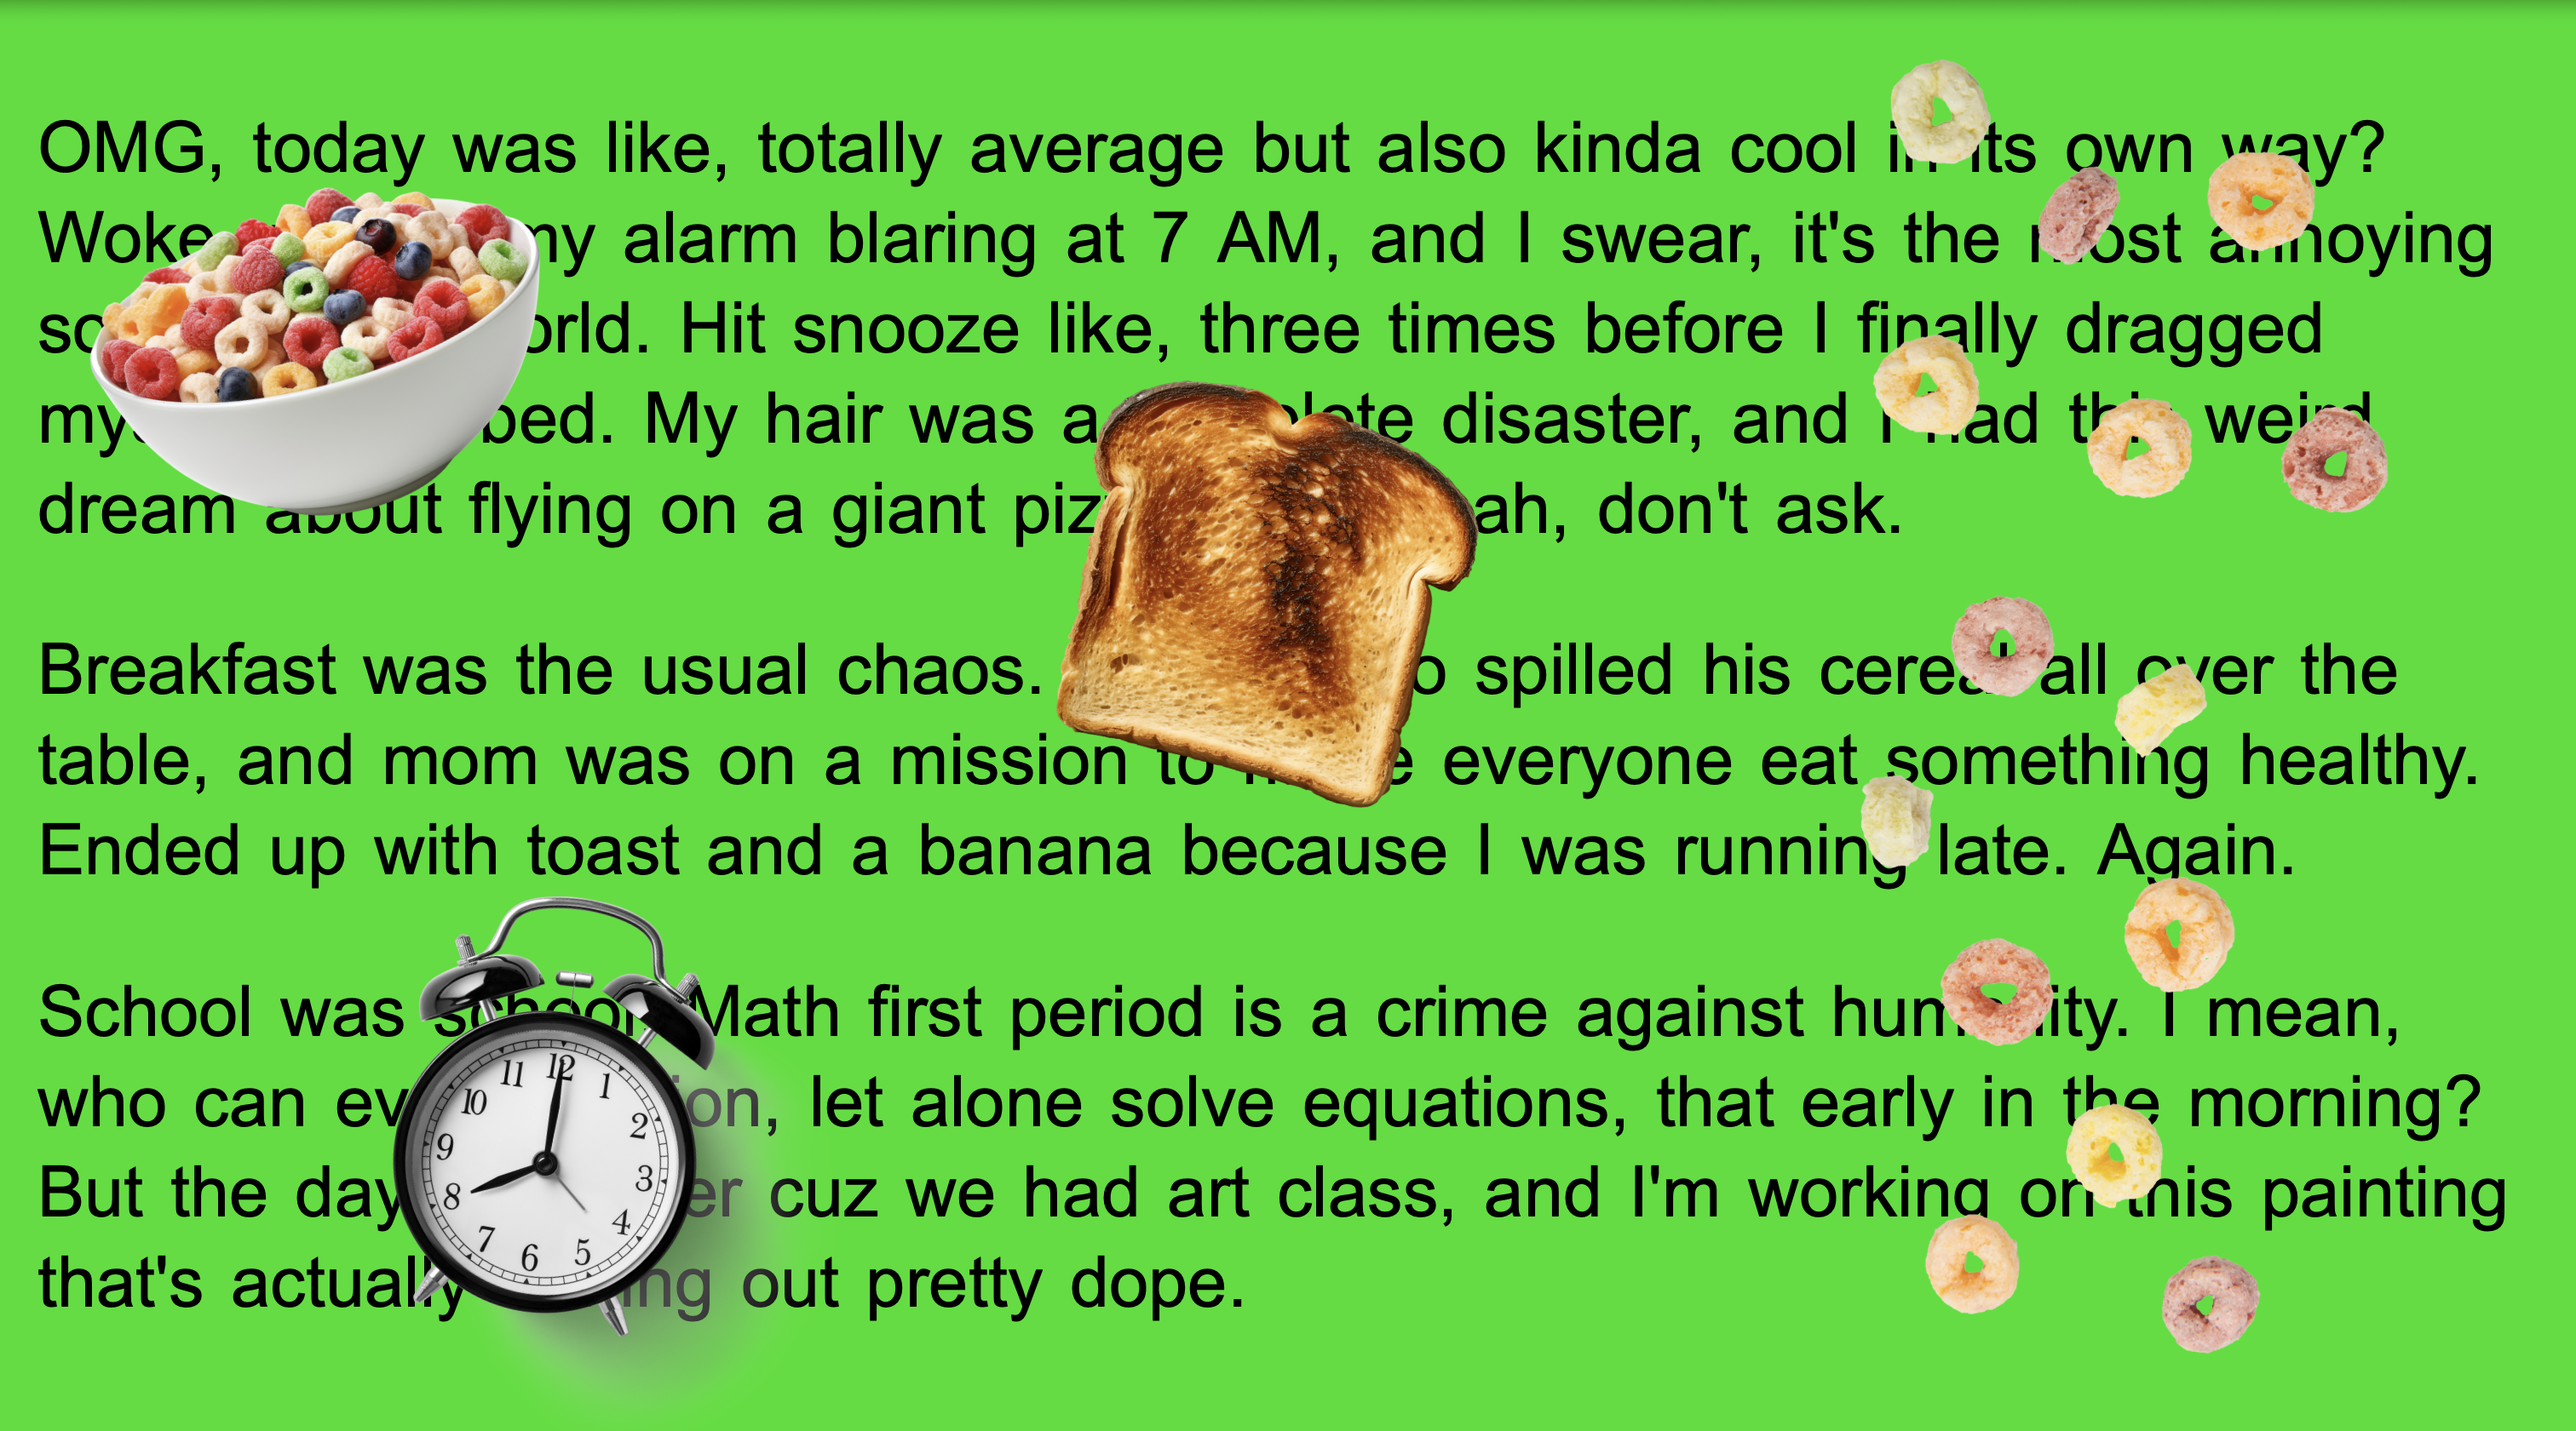
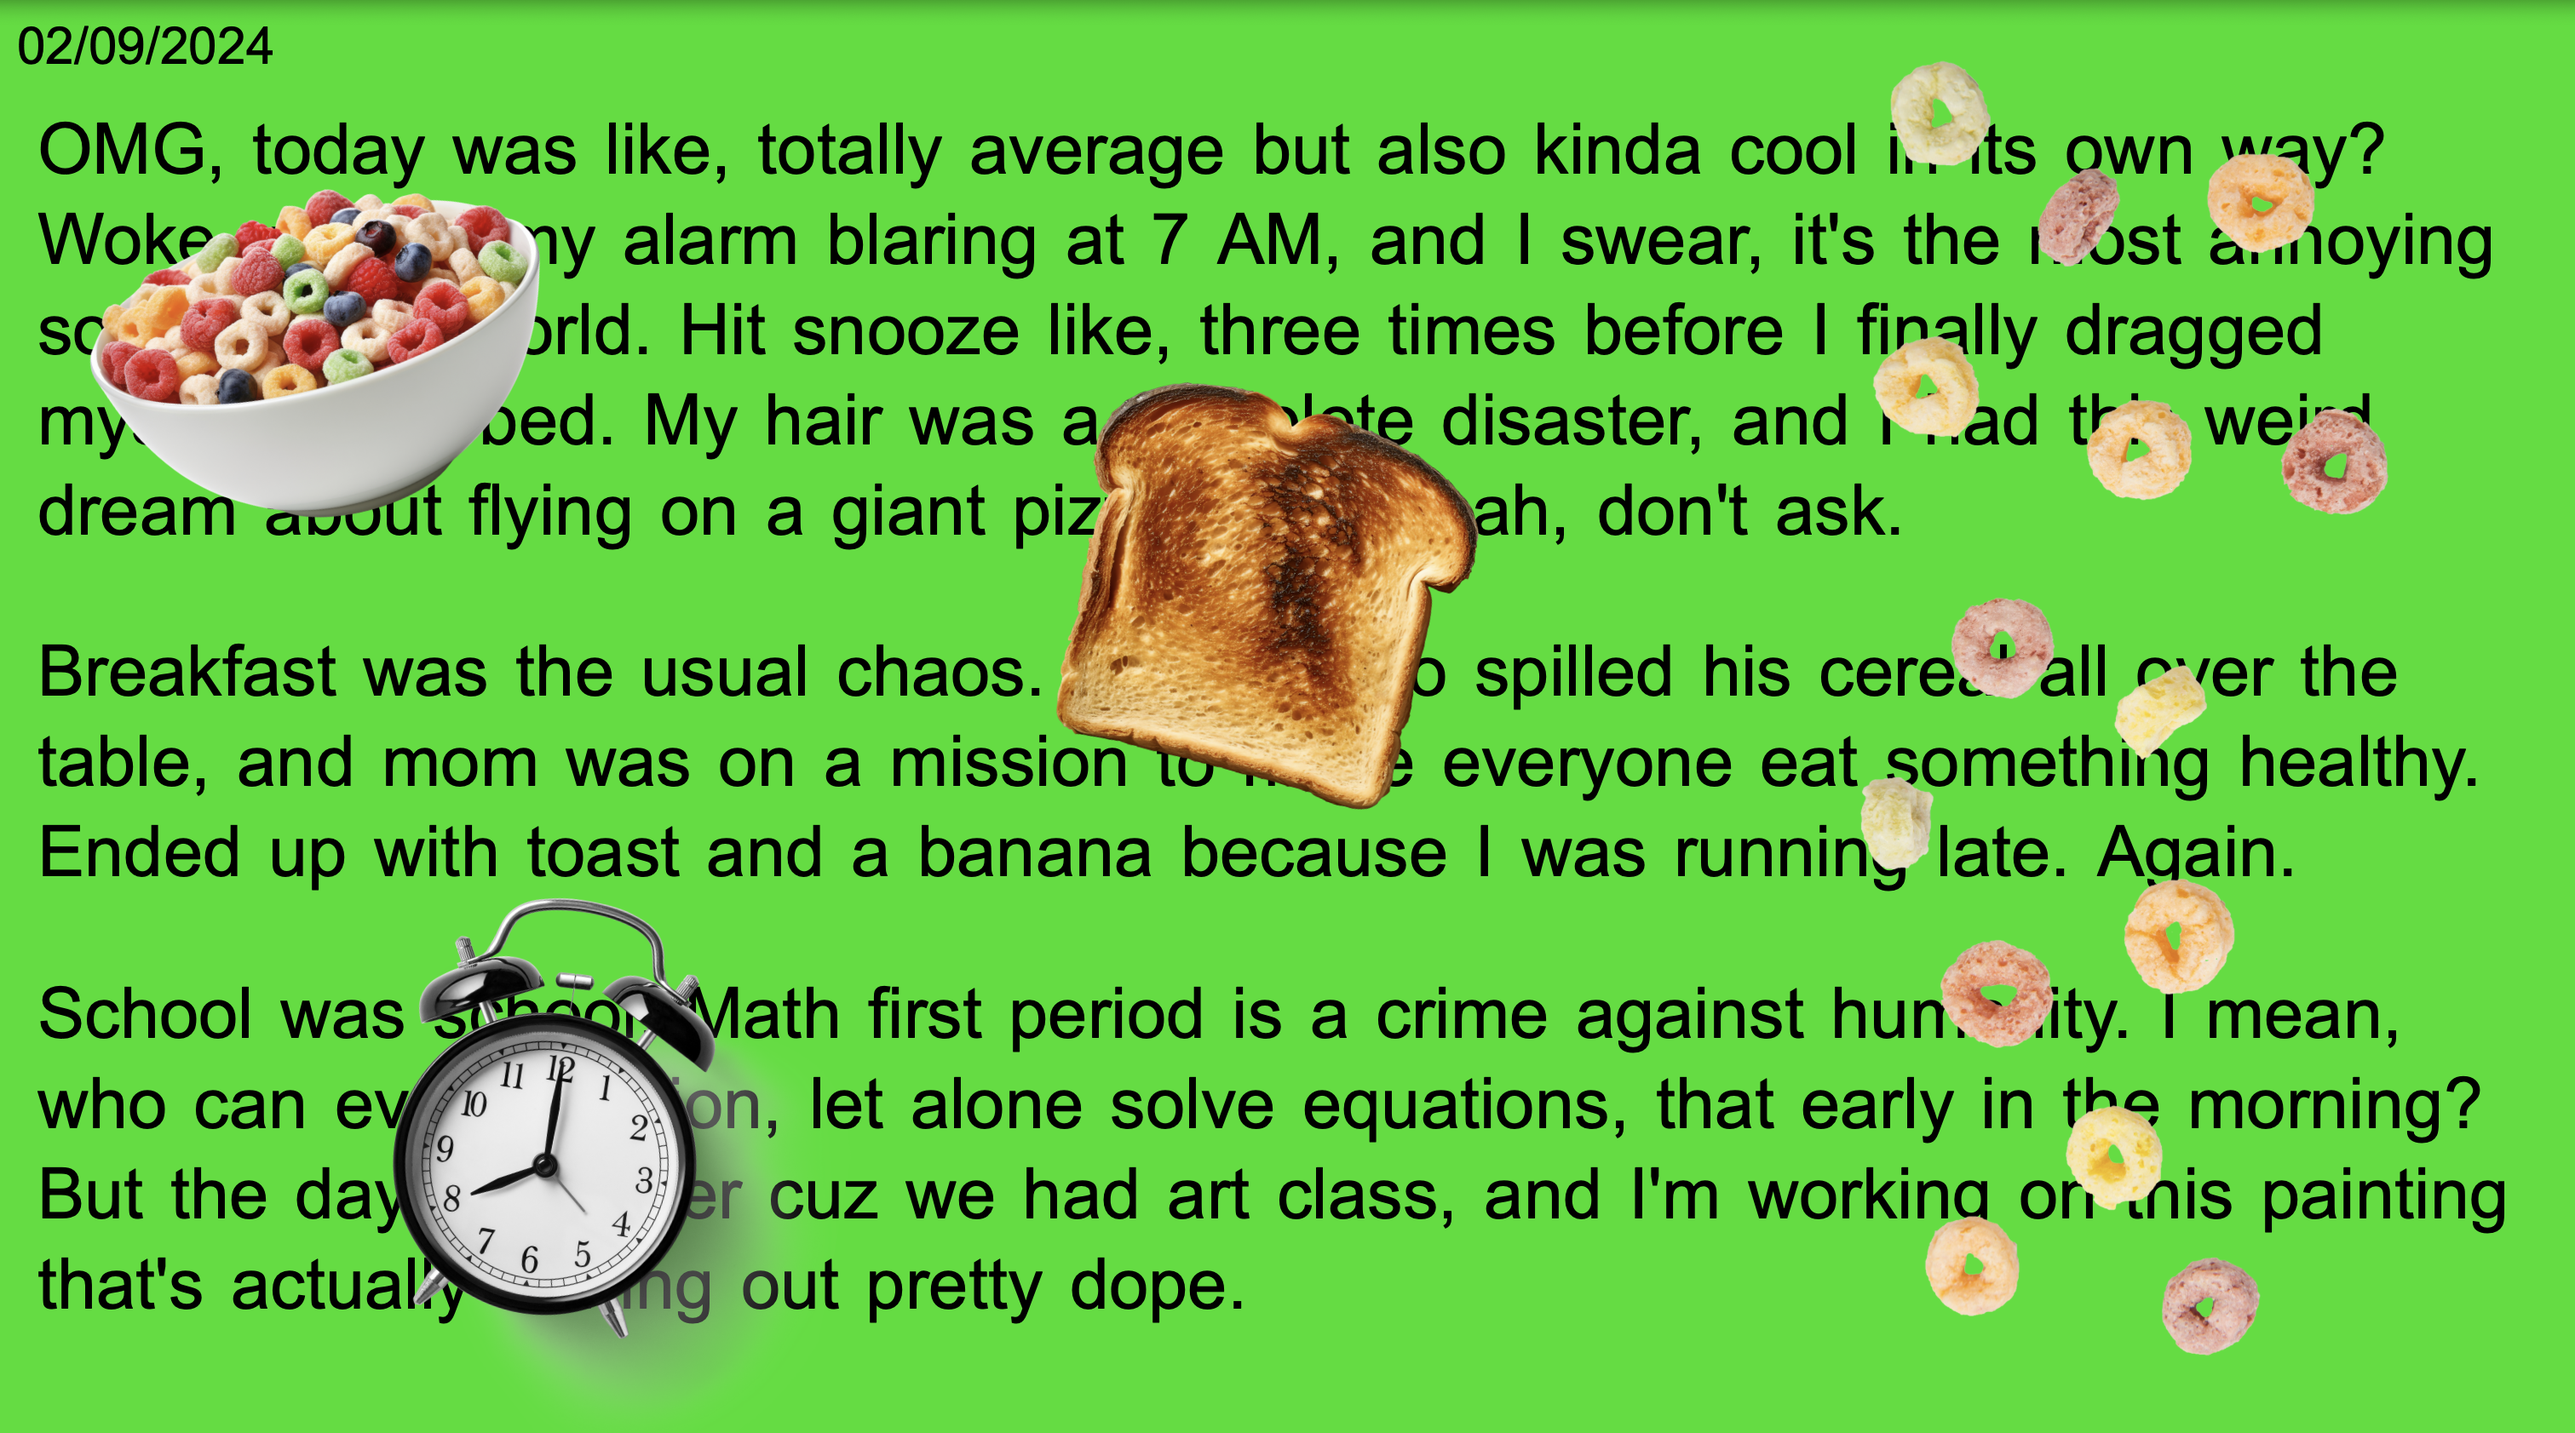
final

diff --git a/mydream/main.js b/mydream/main.js
@@ -1,51 +1,54 @@
 document.addEventListener('DOMContentLoaded', () => {
-    const text = "me and my family going somewhere I think some sort of ball or smthing cuz we had prom dresses. This lady was taking us there in like a teacup n pushing us n on the way theres like so many hills n the whole area looks spooky. There was also a zoo section that we stopped n looked around at n there was like giant spiders chihuahuas pigeons n other stuff. Me n my sister were looking at them n talking abt how scary it wud b if the giant bugs were in our house n then out of nowhere this cat popped up and all the zoo things dropped to the ground. N then when the cat started running toward us the zoo things also came out of the cages n ran towards us but there was this giant eyeball thingy that was like a teleporter n we went in. N in there like the whole world was scarier n it was dark red everywhere so we went out through the portal before it closed n the zoo thingies came in. N then we went to go look for my parents in this scary house and I woke up.";
-    const words = text.split(/\s+/);
-    const body = document.body;
-  
-    words.forEach(word => {
+  document.querySelector('.center-text').addEventListener('click', () => {
+      window.history.back();
+  });
+
+  const text = "me and my family going somewhere I think some sort of ball or smthing cuz we had prom dresses. This lady was taking us there in like a teacup n pushing us n on the way theres like so many hills n the whole area looks spooky. There was also a zoo section that we stopped n looked around at n there was like giant spiders chihuahuas pigeons n other stuff. Me n my sister were looking at them n talking abt how scary it wud b if the giant bugs were in our house n then out of nowhere this cat popped up and all the zoo things dropped to the ground. N then when the cat started running toward us the zoo things also came out of the cages n ran towards us but there was this giant eyeball thingy that was like a teleporter n we went in. N in there like the whole world was scarier n it was dark red everywhere so we went out through the portal before it closed n the zoo thingies came in. N then we went to go look for my parents in this scary house and I woke up.";
+  const words = text.split(/\s+/);
+  const body = document.body;
+
+  words.forEach(word => {
       const span = document.createElement('span');
       span.textContent = word;
       span.className = 'word';
       placeWord(span);
       body.appendChild(span);
       animateWord(span);
-    });
-  
-    document.addEventListener('mousemove', (e) => {
-      document.querySelectorAll('.word').forEach(word => {
-        const dx = word.offsetLeft + word.clientWidth / 2 - e.clientX;
-        const dy = word.offsetTop + word.clientHeight / 2 - e.clientY;
-        const distance = Math.sqrt(dx * dx + dy * dy);
-        if (distance < 100) {
-          word.style.transform = `translate(${dx / 2}px, ${dy / 2}px)`;
-        }
-      });
-    });
   });
-  
-  function placeWord(word) {
-    const x = Math.random() * (window.innerWidth - word.clientWidth);
-    const y = Math.random() * (window.innerHeight - word.clientHeight);
-    word.style.left = `${x}px`;
-    word.style.top = `${y}px`;
-  }
-  
-  function animateWord(word) {
-    let xSpeed = Math.random() * 2 - 1;
-    let ySpeed = Math.random() * 2 - 1;
-  
-    function move() {
+
+  document.addEventListener('mousemove', (e) => {
+      document.querySelectorAll('.word').forEach(word => {
+          const dx = word.offsetLeft + word.clientWidth / 2 - e.clientX;
+          const dy = word.offsetTop + word.clientHeight / 2 - e.clientY;
+          const distance = Math.sqrt(dx * dx + dy * dy);
+          if (distance < 100) {
+              word.style.transform = `translate(${dx / 2}px, ${dy / 2}px)`;
+          }
+      });
+  });
+});
+
+function placeWord(word) {
+  const x = Math.random() * (window.innerWidth - word.clientWidth);
+  const y = Math.random() * (window.innerHeight - word.clientHeight);
+  word.style.left = `${x}px`;
+  word.style.top = `${y}px`;
+}
+
+function animateWord(word) {
+  let xSpeed = Math.random() * 2 - 1;
+  let ySpeed = Math.random() * 2 - 1;
+
+  function move() {
       const rect = word.getBoundingClientRect();
       if (rect.left + xSpeed < 0 || rect.right + xSpeed > window.innerWidth) xSpeed *= -1;
       if (rect.top + ySpeed < 0 || rect.bottom + ySpeed > window.innerHeight) ySpeed *= -1;
-  
+
       word.style.left = `${word.offsetLeft + xSpeed}px`;
       word.style.top = `${word.offsetTop + ySpeed}px`;
-  
+
       requestAnimationFrame(move);
-    }
-  
-    move();
   }
-  
+
+  move();
+}

diff --git a/mygrocerylist/index.html b/mygrocerylist/index.html
@@ -7,7 +7,7 @@
     <link rel="stylesheet" href="main.css">
 </head>
 <body>
-    <div class="title">Stream of Consciousness</div>
+    <div class="title" id="back-button">Stream of Consciousness</div>
     <div class="scroll-container">
         <div class="scroll-text">
             02/10/2024 <span id="milk" class="clickable">Milk,</span> <span id="pasta" class="clickable">Bow Pasta,</span> Bread, <span id="cereal" class="clickable">Cereal,</span> Garlic, Eggs, <span id="spam" class="clickable">Spam,</span> <span id="tea" class="clickable">Tea,</span> Grapes, <span id="smoothie_mix" class="clickable">Smoothie Mix,</span> <span id="trader_joes_vanilla_and_blueberry_yogurt" class="clickable">Trader Joes Vanilla and Blueberry Yogurt Cups,</span> <span id="oatmeal" class="clickable">Oatmeal,</span> Clif Bars, <span id="tazo_chai_latte_concentrate" class="clickable">Tazo Chai Latte Concentrate,</span> Pilsbury Cookie Dough, <span id="ramen" class="clickable">Ramen,</span> Frozen Blueberries, <span id="hmart_ade" class="clickable">Hmart Ade,</span> <span id="strawberries" class="clickable">Strawberries.</span>

diff --git a/myday/main.js b/myday/main.js
@@ -1,4 +1,8 @@
 document.addEventListener('DOMContentLoaded', function() {
+    document.querySelector('.title').addEventListener('click', function() {
+        window.history.back();
+    });
+
     document.querySelectorAll('p').forEach(p => {
         let words = p.innerText.split(/\s+/).map(word => {
             let span = document.createElement('span');
@@ -29,6 +33,8 @@ document.addEventListener('DOMContentLoaded', function() {
         rebindDragEvents(); 
     }
 
+    rebindDragEvents();
+
     function rebindDragEvents() {
         document.querySelectorAll('.draggable').forEach(word => {
             word.removeEventListener('dragstart', handleDragStart);
@@ -39,8 +45,6 @@ document.addEventListener('DOMContentLoaded', function() {
             word.addEventListener('drop', handleDrop);
         });
     }
-
-    rebindDragEvents();
 
     function addEffectToParagraphs(effectClass) {
         document.querySelectorAll('p').forEach(p => p.classList.add(effectClass));

diff --git a/myday/index.html b/myday/index.html
@@ -8,6 +8,8 @@
 </head>
 <body>
 
+    <div class="title" id="back-button">02/09/2024</div>
+
 <p>OMG, today was like, totally average but also kinda cool in its own way? Woke up with my alarm blaring at 7 AM, and I swear, it's the most annoying sound in the world. Hit snooze like, three times before I finally dragged myself out of bed. My hair was a complete disaster, and I had this weird dream about flying on a giant pizza slice. Yeah, don't ask.</p>
 
 <p>Breakfast was the usual chaos. My little bro spilled his cereal all over the table, and mom was on a mission to make everyone eat something healthy. Ended up with toast and a banana because I was running late. Again.</p>

diff --git a/myfood/main.js b/myfood/main.js
@@ -1,4 +1,4 @@
-let zIndex = 21; 
+let zIndex = 21;
 
 function openPopup(element) {
     const popup = document.createElement('div');
@@ -55,3 +55,7 @@ function dragElement(elmnt) {
         document.onmousemove = null;
     }
 }
+
+document.getElementById('back-button').addEventListener('click', function() {
+    window.location.href = '../index.html'; 
+});

diff --git a/mydream/main.css b/mydream/main.css
@@ -13,6 +13,11 @@ body {
     color: white;
 }
 
+#back-button {
+    pointer-events: auto; 
+    cursor: pointer; 
+  }  
+
 .center-text {
     font-size: 5vw;
     filter: blur(0.2vw); 
@@ -20,7 +25,7 @@ body {
 
 .word {
     position: absolute;
-    cursor: pointer;
+    pointer-events: none;
 }
 
 @media (max-width: 1000px) {

diff --git a/mygrocerylist/main.js b/mygrocerylist/main.js
@@ -1,4 +1,8 @@
 document.addEventListener('DOMContentLoaded', () => {
+    document.getElementById('back-button').addEventListener('click', () => {
+        window.history.back();
+    });
+
     const items = document.querySelectorAll('.clickable');
     items.forEach(item => {
         item.addEventListener('click', () => {

diff --git a/myfood/index.html b/myfood/index.html
@@ -8,7 +8,7 @@
 </head>
 <body>
     <div id="overlay"></div>
-    <div id="yum">YUM.</div>
+    <div id="yum">YUM<span id="back-button">.</span></div>
     <div class="grid">
         <div class="grid-item" onclick="openPopup(this)" data-desc="BI-BIM-BAP.">
             <img src="imgs/food1.png" alt="">

diff --git a/myday/main.css b/myday/main.css
@@ -9,6 +9,20 @@ body {
   overflow: hidden;
 }
 
+.title {
+  position: absolute;
+  top: 0;
+  left: 0;
+  margin: 10px;
+  font-size: 2vw;
+  z-index: 10;
+}
+
+#back-button {
+  pointer-events: auto; 
+  cursor: pointer; 
+}
+
 img {
   position: absolute;
   cursor: pointer;

diff --git a/mydream/index.html b/mydream/index.html
@@ -7,7 +7,7 @@
 <link rel="stylesheet" href="main.css">
 </head>
 <body>
-    <div class="center-text">I had a dream about</div>
+    <div class="center-text" id="back-button">I had a dream about</div>
 
 <script src="main.js"></script>
 </body>

diff --git a/myfood/main.css b/myfood/main.css
@@ -17,6 +17,11 @@ body, html {
     pointer-events: none;
 }
 
+#back-button {
+    pointer-events: auto; 
+    cursor: pointer; 
+}
+
 .grid {
     display: flex;
     flex-wrap: wrap;

diff --git a/mygrocerylist/main.css b/mygrocerylist/main.css
@@ -16,7 +16,7 @@ body, html {
     top: 0;
     left: 0;
     margin: 10px;
-    font-size: 24px;
+    font-size: 2vw;
     z-index: 10;
     color: #0500FF;
 }
